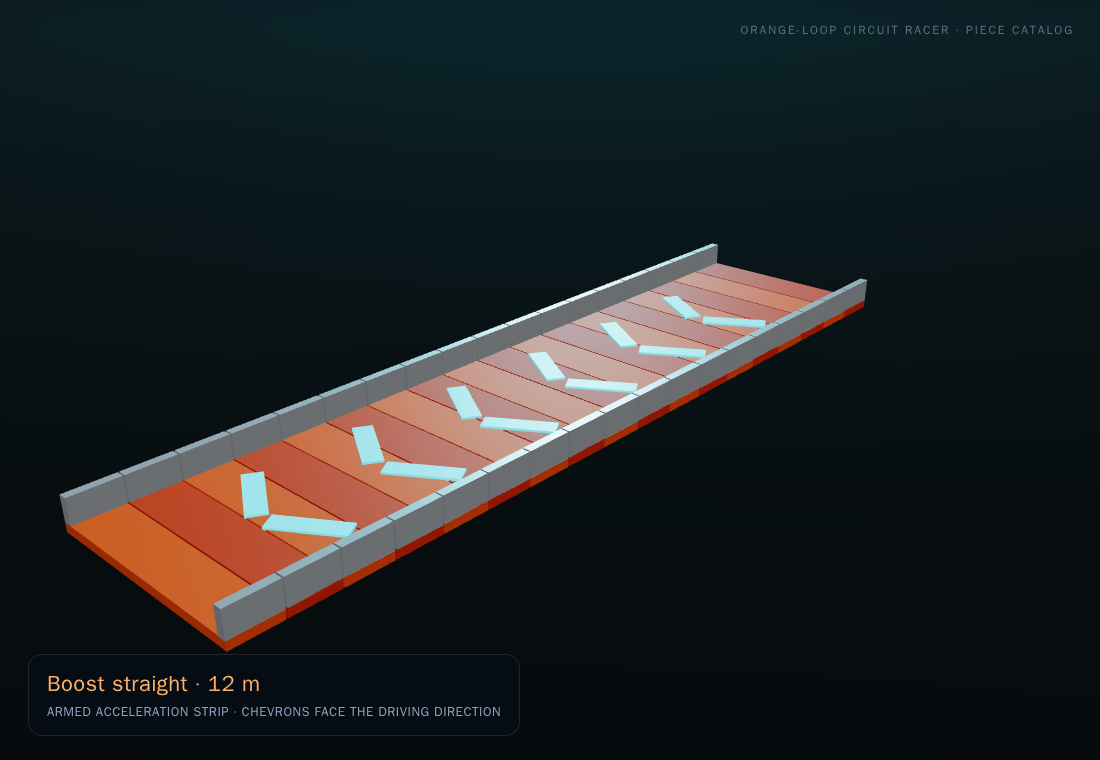
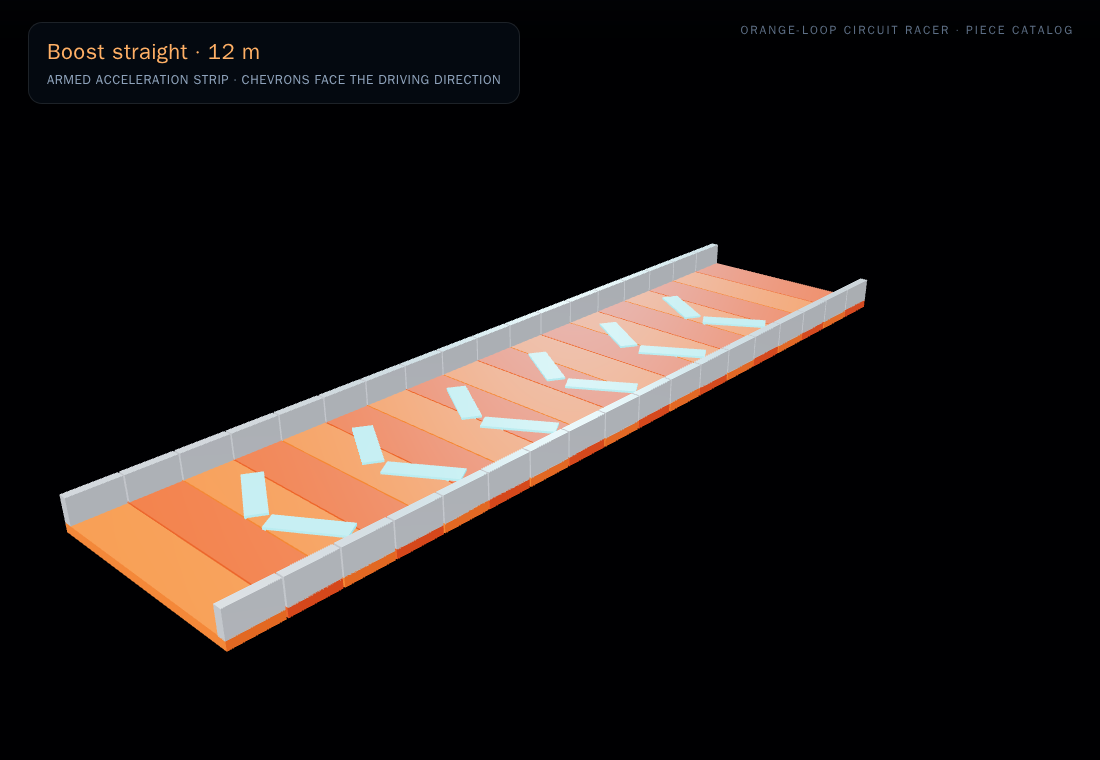
WIP: environment-lit car render and working cockpit rig
- Studio environment map (RoomEnvironment + PMREM) so chrome, paint,
  and rims reflect instead of rendering black.
- Cockpit asset is now a camera rig (dashboard + wheel + hood) rather
  than the exterior shell, so the dashboard is actually visible from the
  driver's eye. Caption moved to the top-left so it never covers gauges.
- Car decals pushed outside the body shell and flame palette made bold.
- Planks overlap 4% and support pillars spaced evenly, which removes the
  seam gaps at crests and turns.
- Render script renamed to tools/render-assets.mjs and accepts piece ids:
  npm run assets -- car cockpit

diff --git a/tools/preview/index.html b/tools/preview/index.html
@@ -27,7 +27,7 @@
       .caption {
         position: absolute;
         left: 28px;
-        bottom: 24px;
+        top: 22px;
         padding: 14px 18px;
         border-radius: 14px;
         background: rgba(6, 12, 22, 0.72);
